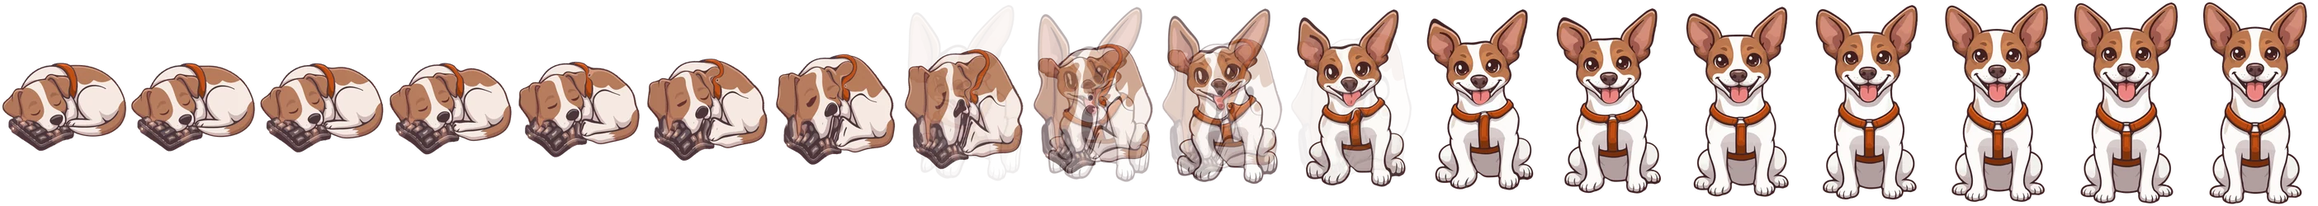
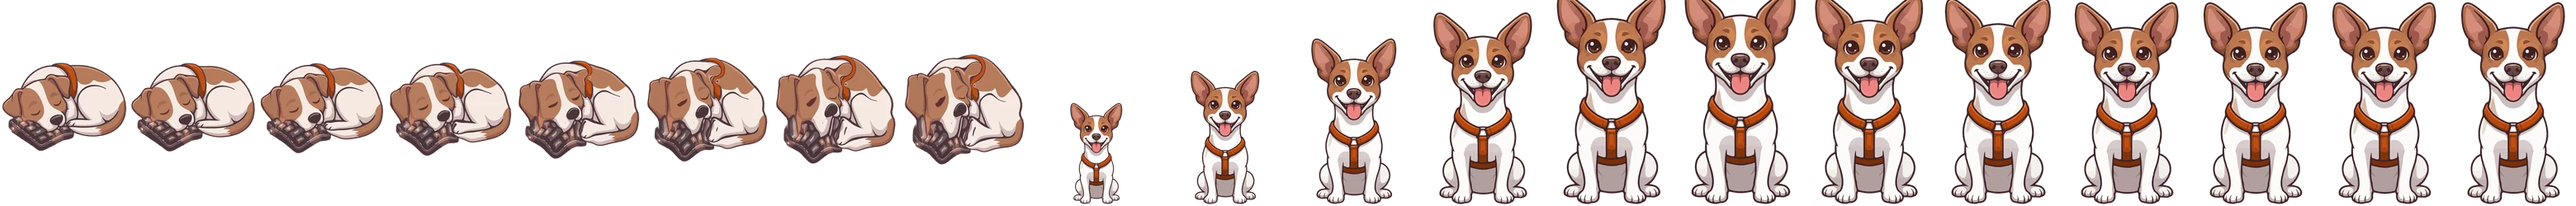
fix: animação do cachorro refeita (20 quadros, nuvem de fumaça na troca) e toca a cada clique

diff --git a/app/globals.css b/app/globals.css
@@ -757,17 +757,22 @@ html:not(.reduce-motion) [data-slot="button"] {
   }
 }
 
-/* Mascote: folha de quadros dormindo -> sentado (components/mascote.tsx) */
+/* Mascote: folha de 20 quadros dormindo -> sentado (components/mascote.tsx).
+   Quadros 0-7: dormindo se mexendo; 8-19: sentado surgindo da nuvem (public/img/mascote-acordando.webp,
+   gerada por morph entre as duas poses) */
 .dog-sprite {
   width: 72px;
   height: 116px;
-  background: url("/img/mascote-acordando.webp") 0 0 / 1800% 100% no-repeat;
+  background: url("/img/mascote-acordando.webp") 0 0 / 2000% 100% no-repeat;
 }
 .dog-wake {
-  animation: dog-frames 1.3s steps(17) forwards;
+  animation: dog-frames 1.5s steps(19) forwards;
+}
+.dog-repop {
+  animation: dog-frames-pop 0.8s steps(11) forwards;
 }
 .dog-sleep {
-  animation: dog-frames 1s steps(17) reverse forwards;
+  animation: dog-frames 1.1s steps(19) reverse forwards;
 }
 .dog-awake-static {
   background-position: 100% 0;
@@ -778,5 +783,54 @@ html:not(.reduce-motion) [data-slot="button"] {
   }
   to {
     background-position: 100% 0;
+  }
+}
+@keyframes dog-frames-pop {
+  from {
+    background-position: 42.105% 0;
+  }
+  to {
+    background-position: 100% 0;
+  }
+}
+
+.dog-puff {
+  position: absolute;
+  inset: 0;
+  pointer-events: none;
+  --puff-delay: 0.3s;
+}
+.dog-puff-repop {
+  --puff-delay: 0s;
+}
+.dog-puff-sleep {
+  --puff-delay: 0.25s;
+}
+.dog-puff span {
+  position: absolute;
+  border-radius: 9999px;
+  background: color-mix(in oklab, var(--card) 88%, white);
+  border: 1.5px solid var(--hairline);
+  opacity: 0;
+  animation: dog-puff 0.8s ease-out both;
+  animation-delay: calc(var(--puff-delay) + var(--d, 0s));
+}
+.dog-puff span:nth-child(1) { left: 6px; top: 66px; width: 26px; height: 26px; --d: 0s; }
+.dog-puff span:nth-child(2) { left: 24px; top: 46px; width: 32px; height: 32px; --d: 0.04s; }
+.dog-puff span:nth-child(3) { left: 44px; top: 64px; width: 26px; height: 26px; --d: 0.02s; }
+.dog-puff span:nth-child(4) { left: 14px; top: 84px; width: 28px; height: 28px; --d: 0.06s; }
+.dog-puff span:nth-child(5) { left: 40px; top: 86px; width: 26px; height: 26px; --d: 0.03s; }
+@keyframes dog-puff {
+  0% {
+    transform: scale(0.2);
+    opacity: 0;
+  }
+  40% {
+    transform: scale(1);
+    opacity: 1;
+  }
+  100% {
+    transform: scale(1.5);
+    opacity: 0;
   }
 }

diff --git a/components/mascote.tsx b/components/mascote.tsx
@@ -20,7 +20,10 @@ export function Mascote({
   rickrollClicks?: number
 }) {
   const [acordado, setAcordado] = useState(false)
-  const [everWoke, setEverWoke] = useState(false)
+  // 'idle' = dormindo parado; 'wake' = acorda (folha inteira); 'repop' = já acordado e cutucado de novo
+  // (só a parte do cachorro sentado surgindo da nuvem); 'sleep' = volta a dormir (folha de trás pra frente).
+  // `key` muda a cada clique pra remontar o elemento e reiniciar a animação CSS.
+  const [anim, setAnim] = useState<{ mode: 'idle' | 'wake' | 'repop' | 'sleep'; key: number }>({ mode: 'idle', key: 0 })
   const [frase, setFrase] = useState('...')
   const [rickrollOpen, setRickrollOpen] = useState(false)
   const [rickrollPreload, setRickrollPreload] = useState(false)
@@ -36,9 +39,12 @@ export function Mascote({
     if (timeoutRef.current) clearTimeout(timeoutRef.current)
     const requestId = ++requestIdRef.current
     setFrase('...')
+    setAnim((a) => ({ mode: acordado ? 'repop' : 'wake', key: a.key + 1 }))
     setAcordado(true)
-    setEverWoke(true)
-    timeoutRef.current = setTimeout(() => setAcordado(false), 6000)
+    timeoutRef.current = setTimeout(() => {
+      setAcordado(false)
+      setAnim((a) => ({ mode: 'sleep', key: a.key + 1 }))
+    }, 6000)
 
     fetch(JOKE_API_URL)
       .then((res) => res.json())
@@ -103,12 +109,19 @@ export function Mascote({
           }
         >
           <div
+            key={anim.key}
             aria-hidden
-            className={`dog-sprite ${
-              reduceMotion ? (acordado ? 'dog-awake-static' : '') : acordado ? 'dog-wake' : everWoke ? 'dog-sleep' : ''
-            }`}
+            className={`dog-sprite ${reduceMotion ? (acordado ? 'dog-awake-static' : '') : `dog-${anim.mode}`}`}
           />
         </motion.div>
+        {/* nuvem de fumaça que esconde a troca de pose no meio da animação */}
+        {!reduceMotion && anim.mode !== 'idle' && (
+          <div key={`puff-${anim.key}`} aria-hidden className={`dog-puff dog-puff-${anim.mode}`}>
+            {[0, 1, 2, 3, 4].map((i) => (
+              <span key={i} />
+            ))}
+          </div>
+        )}
       </motion.button>
 
       {acordado ? (
